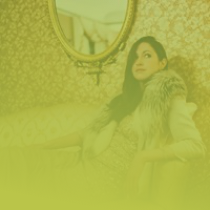
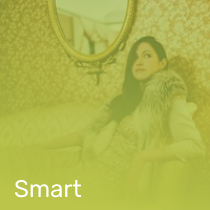
updated cover imgs

Changed region(s): [[0.0571, 0.8571, 0.4, 0.9429]]

diff --git a/index.html b/index.html
@@ -582,37 +582,31 @@ height="0" width="0" style="display:none;visibility:hidden"></iframe></noscript>
 								<li class="fromTop fix-2-12 col-3-12 hover-opacity padding-1 js-tilt feed-card" style="overflow:hidden;">
 									<a style="position:relative;" href="https://app.yup.io/?feed=latenightcool" target="_blank">
 										<img class="rounded" data-tilt-max="-3" src="assets/img/popularcover.png" alt="Image Thumbnail">
-										<h3 class="feed-title">Popular</h3>
 									</a>
 								</li>
 								<li class="fromTop fix-2-12 col-3-12 hover-opacity js-tilt feed-card padding-1" style="overflow:hidden;position:relative;">
 									<a style="position:relative;" href="https://app.yup.io/?feed=dailyhits" target="_blank">
 										<img class="rounded" data-tilt-max="-3" src="assets/img/dailyhitscover.png" alt="Image Thumbnail">
-										<h3 class="feed-title">Daily Hits</h3>
 									</a>
 								</li>
 								<li class="fromTop fix-2-12 col-3-12 hover-opacity js-tilt feed-card padding-1" style="position:relative;overflow:hidden;">
 									<a href="https://app.yup.io/?feed=NFTs" target="_blank">
-										<img class="rounded" data-tilt-max="-3" src="assets/img/lolcover.png" alt="Image Thumbnail">
-										<h3 class="feed-title">NFTs</h3>
+										<img class="rounded" data-tilt-max="-3" src="assets/img/nftcover.png" alt="Image Thumbnail">
 									</a>
 								</li>
 								<li class="fromTop fix-2-12 col-3-12 hover-opacity js-tilt feed-card padding-1" style="position:relative;">
 									<a href="https://app.yup.io/?feed=non-corona" target="_blank">
 										<img class="rounded" data-tilt-max="-3" src="assets/img/safecover.png" alt="Image Thumbnail">
-										<h3 class="feed-title">Safe Space</h3>
 									</a>
 								</li>
 								<li class="fromTop fix-2-12 col-3-12 hover-opacity  js-tilt feed-card padding-1">
 									<a href="https://app.yup.io/?feed=crypto" target="_blank">
 										<img class="rounded" data-tilt-max="-3" src="assets/img/cryptocover.png" alt="Image Thumbnail">
-										<h3 class="feed-title">Crypto</h3>
 									</a>
 								</li>
 								<li class="fromTop fix-2-12 col-3-12 hover-opacity js-tilt feed-card padding-1">
 									<a href="https://app.yup.io/?feed=brainfood" target="_blank">
 										<img class="rounded" data-tilt-max="-3" src="assets/img/smartcover.png" alt="Image Thumbnail">
-										<h3 class="feed-title">Smart</h3>
 									</a>
 								</li>
 							</ul>
